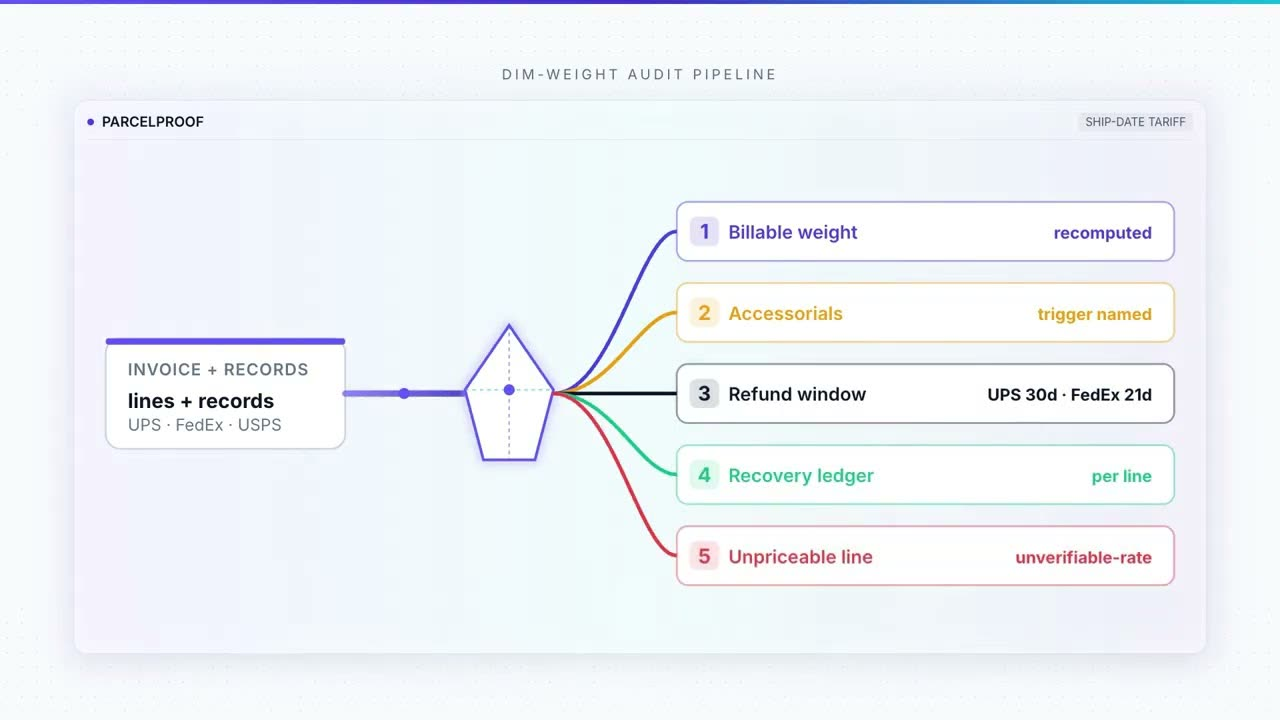
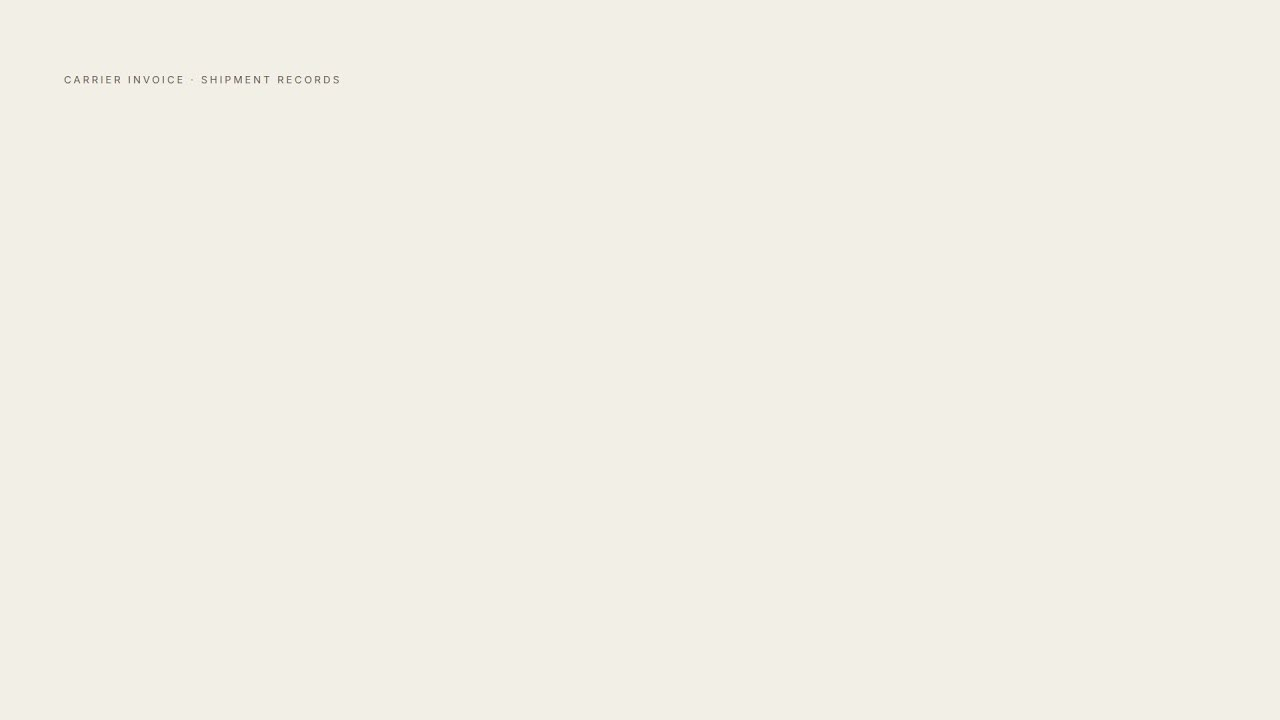
launch video: embed parcelproof (pVItC4gjXJc)
Uploaded pVItC4gjXJc (23s, public) and embedded it: poster youtube maxresdefault, registry entry via scripts/launch-video/embed.mjs.

diff --git a/src/products/launch-videos.ts b/src/products/launch-videos.ts
@@ -76,11 +76,11 @@ export const LAUNCH_VIDEOS: readonly LaunchVideo[] = [
   },
   {
     slug: "parcelproof",
-    youtubeId: "I38c05ZZZr8",
+    youtubeId: "pVItC4gjXJc",
     posterPath: "/launch-videos/parcelproof.jpg",
     title: "Introducing ParcelProof: carrier invoice DIM-weight and surcharge audit for UPS, FedEx and USPS.",
     durationSeconds: 23,
-    publishedAt: "2026-10-14",
+    publishedAt: "2026-10-24",
   },
   {
     slug: "caseproof",
